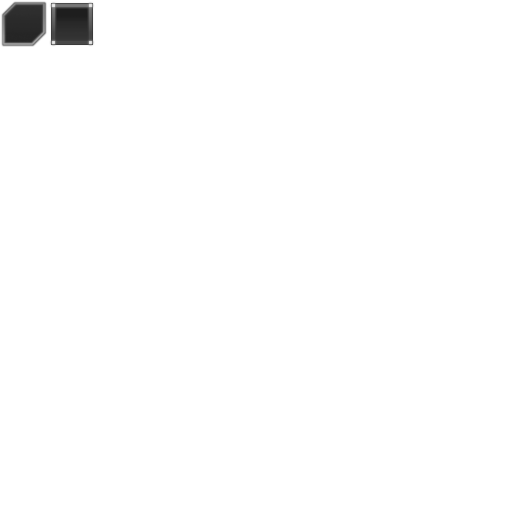
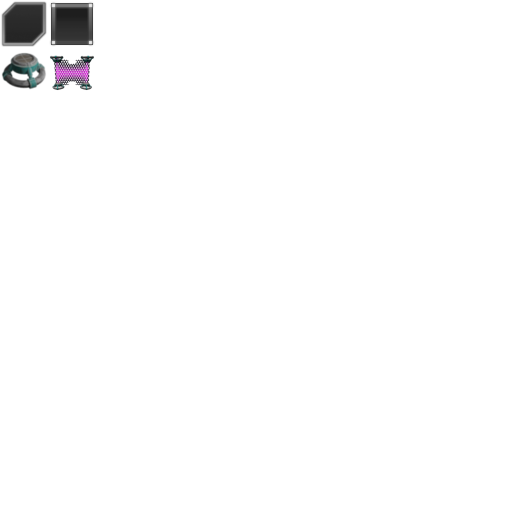
wall building with broken physics

Changed region(s): [[0.0, 0.0938, 0.1875, 0.1875]]

diff --git a/build.h b/build.h
@@ -1,10 +1,25 @@
-
+#include <math.h>
 typedef struct {
+  size_t option_selected;
   float appear_anim;
   bool appearing;
+  Ent *first_pillar;
+  Ent *second_pillar;
+  bool semi_connected;
 } build_State;
 
 static build_State _build_state = { 0 };
+
+typedef struct {
+  const char *name;
+  const char *tooltip;
+  ol_Rect part;
+} build_Option;
+
+const build_Option _build_options[] = {
+  {"Pillar", "This is a pillar, press space to place a pillar", { 0, 48, 48, 48 } },
+  {"Wall",   "This is a wall, you need to select 2 pillars to emerge a force field", { 48, 48, 48, 48 } },
+};
 
 #define self _build_state
 
@@ -41,14 +56,34 @@ bool build_event(const sapp_event *ev) {
         return true;
       }
       else if (self.appear_anim > 0.0f && ev->key_code == SAPP_KEYCODE_SPACE) {
-        add_ent((Ent) {
-          .art = Art_Pillar,
-          .pos = add2(state->player->pos, mul2_f(vec2_swap(vec2_rot(state->player->angle)), 10.0)),
-          .height = 0,
-          .x_rot = 0,
-          .transparency = 1.0,
-          .passive_rotate_axis = vec3_y,
-        });
+        if (self.option_selected == 0) {
+          add_ent((Ent) {
+            .art = Art_Pillar,
+            .pos = add2(state->player->pos, mul2_f(vec2_swap(vec2_rot(state->player->angle)), 10.0)),
+            .height = 0,
+            .x_rot = 0,
+            .transparency = 1.0,
+            .passive_rotate_axis = vec3_y,
+          });
+        }
+        else if (self.option_selected == 1) {
+          if (self.semi_connected && self.second_pillar != NULL) {
+            Vec2 diff = sub2(self.second_pillar->pos, self.first_pillar->pos);
+            Vec2 pos = add2(self.first_pillar->pos, div2_f(diff, 2.0f));
+
+            add_ent((Ent) {
+              .art = Art_Plane,
+              .pos = pos,
+              .angle = atan2f(diff.x, diff.y)+PI_f/2.0f,
+              .scale = { mag2(diff)/2.0f+0.4f, 4.0f, 1.0f },
+              .height = -1.0f,
+              .collider.size = mag2(diff)/2.0f,
+              .collider.shape = Shape_Line,
+              .collider.weight = 1000.0f,
+            });
+          }
+          self.semi_connected = !self.semi_connected;
+        }
         return true;
       }
     } break;
@@ -60,15 +95,17 @@ bool build_event(const sapp_event *ev) {
 static void draw_ent(Mat4 vp, Ent *ent);
 void build_draw_3d(Mat4 vp) {
   if (self.appearing || self.appear_anim > 0) {
-    sg_apply_pipeline(state->pip[Shader_Standard]);
-    draw_ent(vp, &(Ent) {
-      .art = Art_Pillar,
-      .pos = add2(state->player->pos, mul2_f(vec2_swap(vec2_rot(state->player->angle)), 10.0)),
-      .height = 0,
-      .x_rot = 0,
-      .transparency = lerp(0, 0.5, fmax(fmin(self.appear_anim, 1.0), 0.0)),
-      .passive_rotate_axis = vec3_y,
-    });
+    if (self.option_selected == 0) {
+      sg_apply_pipeline(state->pip[Shader_Standard]);
+      draw_ent(vp, &(Ent) {
+        .art = Art_Pillar,
+        .pos = add2(state->player->pos, mul2_f(vec2_swap(vec2_rot(state->player->angle)), 10.0)),
+        .height = 0,
+        .x_rot = 0,
+        .transparency = lerp(0, 0.5, fmax(fmin(self.appear_anim, 1.0), 0.0)),
+        .passive_rotate_axis = vec3_y,
+      });
+    }
   }
 }
 
@@ -78,7 +115,8 @@ void build_update() {
   for (Ent *ent = 0; (ent = ent_all_iter(ent));) {
     if (ent->art == Art_Pillar) {
       Ent *this_pillar = ent;
-      this_pillar->bloom = 0.0;
+      if (this_pillar != self.first_pillar)
+        this_pillar->bloom = 0.0;
       Vec2 diff = sub2(state->player->pos, this_pillar->pos);
       float dot = -dot2(vec2_swap(vec2_rot(state->player->angle)), norm2(diff));
       float dist = sqrtf(dot2(diff, diff));
@@ -89,8 +127,18 @@ void build_update() {
       }
     }
   }
-  if (pillar != NULL)
+  if (self.semi_connected)
+    self.second_pillar = NULL;
+  else 
+    self.first_pillar = NULL;
+
+  if (pillar != NULL && self.option_selected == 1) {
+    if (self.semi_connected)
+      self.second_pillar = pillar;
+    else 
+      self.first_pillar = pillar;
     pillar->bloom = fminf(fmaxf(self.appear_anim, 0.0f), 0.7f);
+  }
 }
 
 void build_draw() {
@@ -98,15 +146,25 @@ void build_draw() {
   ui_screen(sapp_width(), sapp_height());
     ui_row(ui_rel_x(1.0), ui_rel_y(1.0));
       ui_setoffset(_build_interp(-300, 0, 1.3f), 0);
-      ui_frame(300, ui_rel_y(1.0), 1);
-      ui_gap(-300);
-      ui_margin(10);
-      ui_row(300, ui_rel_y(1.0));
-        for (int i = 0; i < 3; i += 1) {
-          ui_margin(5);
-          ui_frame(ui_rel_x(1/3.0f), ui_rel_x(1/3.0f), 0);
-        }
-      ui_row_end();
+      ui_screen(300, ui_rel_y(1.0));
+        ui_frame(300, ui_rel_y(1.0), 1);
+        ui_margin(10);
+        ui_row(300, ui_rel_y(1.0));
+          for (size_t i = 0; i < (sizeof(_build_options)/sizeof(build_Option)); i += 1) {
+            ui_margin(5);  
+            ui_column(ui_rel_x(1/3.0f), ui_rel_x(1/3.0f)+32); 
+              ui_screen(ui_rel_x(1.0f), ui_rel_x(1.0f));
+                if (ui_frame(ui_rel_x(1.0f), ui_rel_x(1.0f), i == self.option_selected ? 2 : 0) && input_mouse_down(0)) {
+                  self.option_selected = i;
+                }
+                ui_screen_anchor_xy(0.5, 0.5);
+                ui_image_part(&ui_atlas, _build_options[i].part);
+              ui_screen_end();
+              ui_text(_build_options[i].name);
+            ui_column_end();
+          }
+        ui_row_end();
+      ui_screen_end();
       // A little margin from the top
       for (int i = 0; i < 4; i += 1) {
         ui_setoffset(0, _build_interp(-60, 10, 3.0f-((float)i/4.0f)));
@@ -119,7 +177,7 @@ void build_draw() {
     ui_row(ui_rel_x(1.0), 32);
       ui_gap(300+10);
       ui_setoffset(0, _build_interp(50, 0, 1.6f));
-      ui_text("This is a tooltip bla bla bla");
+      ui_text(_build_options[self.option_selected].tooltip);
     ui_row_end();
   ui_screen_end();
   if (self.appearing)

diff --git a/main.c b/main.c
@@ -216,16 +216,15 @@ static inline Ent *ent_all_iter(Ent *ent) {
   if (has_ent_prop(ent, EntProp_Active)) return ent;
   return NULL;
 }
+ol_Image test_image;
+ol_Image ui_atlas;
+ol_Image healthbar_image;
+ol_Font test_font;
 
 #include "build.h"
 #include "collision.h"
 #include "player.h"
 #include "ai.h"
-
-ol_Image test_image;
-ol_Image ui_atlas;
-ol_Image healthbar_image;
-ol_Font test_font;
 
 void load_texture(Art art, const char *texture) {
   cp_image_t player_png = cp_load_png(texture);
@@ -369,8 +368,8 @@ void init(void) {
     give_ent_prop(pillar, EntProp_PassiveRotate);
   }
 
-  #define ASTEROIDS_PER_RING (7)
-  #define ASTEROID_RINGS (3)
+  #define ASTEROIDS_PER_RING (0)
+  #define ASTEROID_RINGS (0)
   #define ASTEROID_RING_SPACING (20.0f)
   #define ASTEROID_FIRST_RING_START_DIST (12.0f)
   #define ASTEROID_DIST_RANDOMIZER (3.0f)
@@ -400,7 +399,7 @@ void init(void) {
   sg_setup(&(sg_desc){
     .context = sapp_sgcontext()
   });
-
+/*
   Ent *en = add_ent((Ent) {
     .art = Art_Ship,
     .pos = { -1, 12.5 },
@@ -417,6 +416,7 @@ void init(void) {
   });
   give_ent_prop(en,EntProp_HasAI);
   ai_init(en,AI_TYPE_DSHIP);
+  */
 
 
   load_mesh(    Art_Ship,   Shader_Standard,     "./Bob.obj", "./Bob_Orange.png");
@@ -649,6 +649,8 @@ static void frame(void) {
 
 
   ol_begin();
+  ui_setmousepos((int)_input_mouse_x, (int)_input_mouse_y);
+
   ui_screen((int)w, (int)h);
     ui_screen_anchor_xy(0.98, 0.02);
     ui_column(healthbar_image.width, 0);
@@ -685,12 +687,14 @@ static void frame(void) {
       case Ui_Cmd_Text:
         ol_draw_text(&test_font, cmd->data.text.text, cmd->rect.x, cmd->rect.y, vec4(1.0, 1.0, 1.0, 1.0));
       break;
-      case Ui_Cmd_Frame:
+      case Ui_Cmd_Frame: {
+        int tex_offs = cmd->tag == 1 ? 48 : 0;
+        Vec4 color = cmd->tag == 2 ? vec4(3.0, 0.8, 0.8, 1.0) : vec4(1.0, 0.2, 0.3, 0.9);
         ol_ninepatch(&ui_atlas, cmd->rect, (ol_NinePatch) { 
           .inner = { 16, 16, 16, 16 },
-          .outer = { cmd->tag == 0 ? 0 : 48, 0, 48, 48 },
-        }, vec4(1.0, 0.2, 0.3, 1.0));
-      break;
+          .outer = { tex_offs, 0, 48, 48 },
+        }, color);
+      } break;
       case Ui_Cmd_Image:
         ol_draw_tex_part(cmd->data.image.img, cmd->rect, cmd->data.image.part);
       break;
@@ -751,11 +755,15 @@ static void event(const sapp_event *ev) {
 
   switch (ev->type) {
     case SAPP_EVENTTYPE_KEY_DOWN: {
-        input_key_update(ev->key_code,1);
+      input_key_update(ev->key_code,1);
       #ifndef NDEBUG
         if (ev->key_code == SAPP_KEYCODE_ESCAPE)
           sapp_request_quit();
       #endif
+    } break;
+    case SAPP_EVENTTYPE_MOUSE_MOVE: {
+      _input_mouse_x = ev->mouse_x;
+      _input_mouse_y = ev->mouse_y;
     } break;
     case SAPP_EVENTTYPE_KEY_UP: {
         input_key_update(ev->key_code,0);

diff --git a/ui.h b/ui.h
@@ -64,6 +64,7 @@ typedef struct {
   size_t command_iter;
   int margin;
   int offset_x, offset_y;
+  int mx, my;
 } ui_State;
 
 static ui_State _ui_state;
@@ -84,6 +85,11 @@ static ol_Rect* ui_cprect(ol_Rect rect) {
 
 static ol_Rect ui_mkrect(int x, int y, int w, int h) {
     return (ol_Rect) { .x = x, .y = y, .w = w, .h = h };
+}
+
+static void ui_setmousepos(int x, int y) {
+  _ui_state.mx = x;
+  _ui_state.my = y;
 }
 
 static ol_Rect ui_cut_top(ol_Rect *rect, int amount) {
@@ -312,6 +318,19 @@ static void ui_image(ol_Image *img) {
   });
 }
 
+static void ui_image_ex(ol_Image *img, ol_Rect part, int w, int h) {
+  ui_addcommand((ui_Command) {
+    .kind = Ui_Cmd_Image,
+    .rect = _ui_query_bounds(w, h),
+    .data = {
+      .image = { 
+        img,
+        part
+      } 
+    }
+  });
+}
+
 static void ui_image_ratio(ol_Image *img, float x, float y) {
   ui_addcommand((ui_Command) {
     .kind = Ui_Cmd_Image,
@@ -339,12 +358,16 @@ static void ui_image_part(ol_Image *img, ol_Rect part) {
   });
 }
 
-static void ui_frame(int width, int height, int tag) {
+static bool ui_frame(int width, int height, int tag) {
+  ol_Rect bounds = _ui_query_bounds(width, height); 
   ui_addcommand((ui_Command) {
     .kind = Ui_Cmd_Frame,
-    .rect = _ui_query_bounds(width, height),
+    .rect = bounds,
     .tag = tag,
   });
+  return 
+    _ui_state.mx >= bounds.x && _ui_state.mx <= (bounds.x+bounds.w) &&
+    _ui_state.my >= bounds.y && _ui_state.my <= (bounds.y+bounds.h);
 }
 
 static void ui_vtextf(const char *fmt, va_list vl) {

diff --git a/input.h b/input.h
@@ -2,6 +2,8 @@ static uint8_t _input_new_key_state[SAPP_MAX_KEYCODES];
 static uint8_t _input_old_key_state[SAPP_MAX_KEYCODES];
 static uint8_t _input_new_mouse_state[SAPP_MAX_MOUSEBUTTONS];
 static uint8_t _input_old_mouse_state[SAPP_MAX_MOUSEBUTTONS];
+static float _input_mouse_x = 0;
+static float _input_mouse_y = 0;
 
 //Call at end of frame
 static void input_update() {
